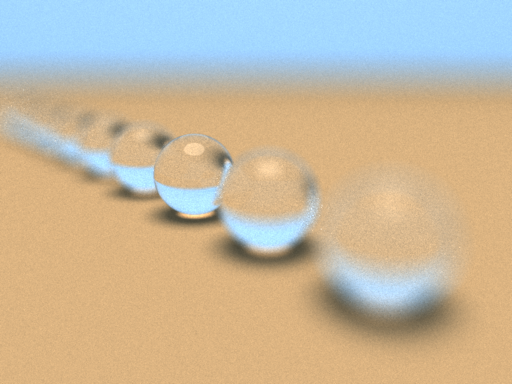
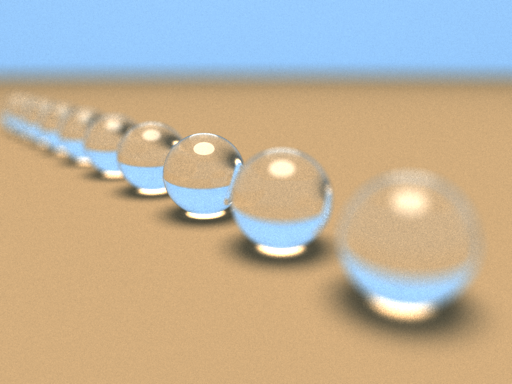
Update path tracer image

Changed region(s): [[0.0, 0.1562, 1.0, 0.9062], [0.7188, 0.4375, 0.8438, 0.5625]]

diff --git a/index.html b/index.html
@@ -100,7 +100,7 @@ title: Steven Dao
     <img src="images/pathtracer_spheres_400iters_15min.png" alt="Row of spheres, 400 iterations." width="450">
   </p>
   <p>
-    This row of spheres demonstrates rendering with depth of field (the aperture being <em>&#131;</em>/8 in this rendering). This image took 15 minutes for 400 iterations using my path tracer.
+    This row of spheres demonstrates rendering with depth of field (the aperture being <em>&#131;</em>/16 in this rendering). This image took 15 minutes for 400 iterations using my path tracer.
   </p>
 </div>
 <div class="continue h1-space short">
@@ -152,6 +152,6 @@ title: Steven Dao
 </div>
 <div class="odd tiny notitle">
   <p>
-    Thanks for visiting! I last updated my homepage on 1 January 2015.
+    Thanks for visiting! I last updated my homepage on 11 January 2015.
   </p>
 </div>
